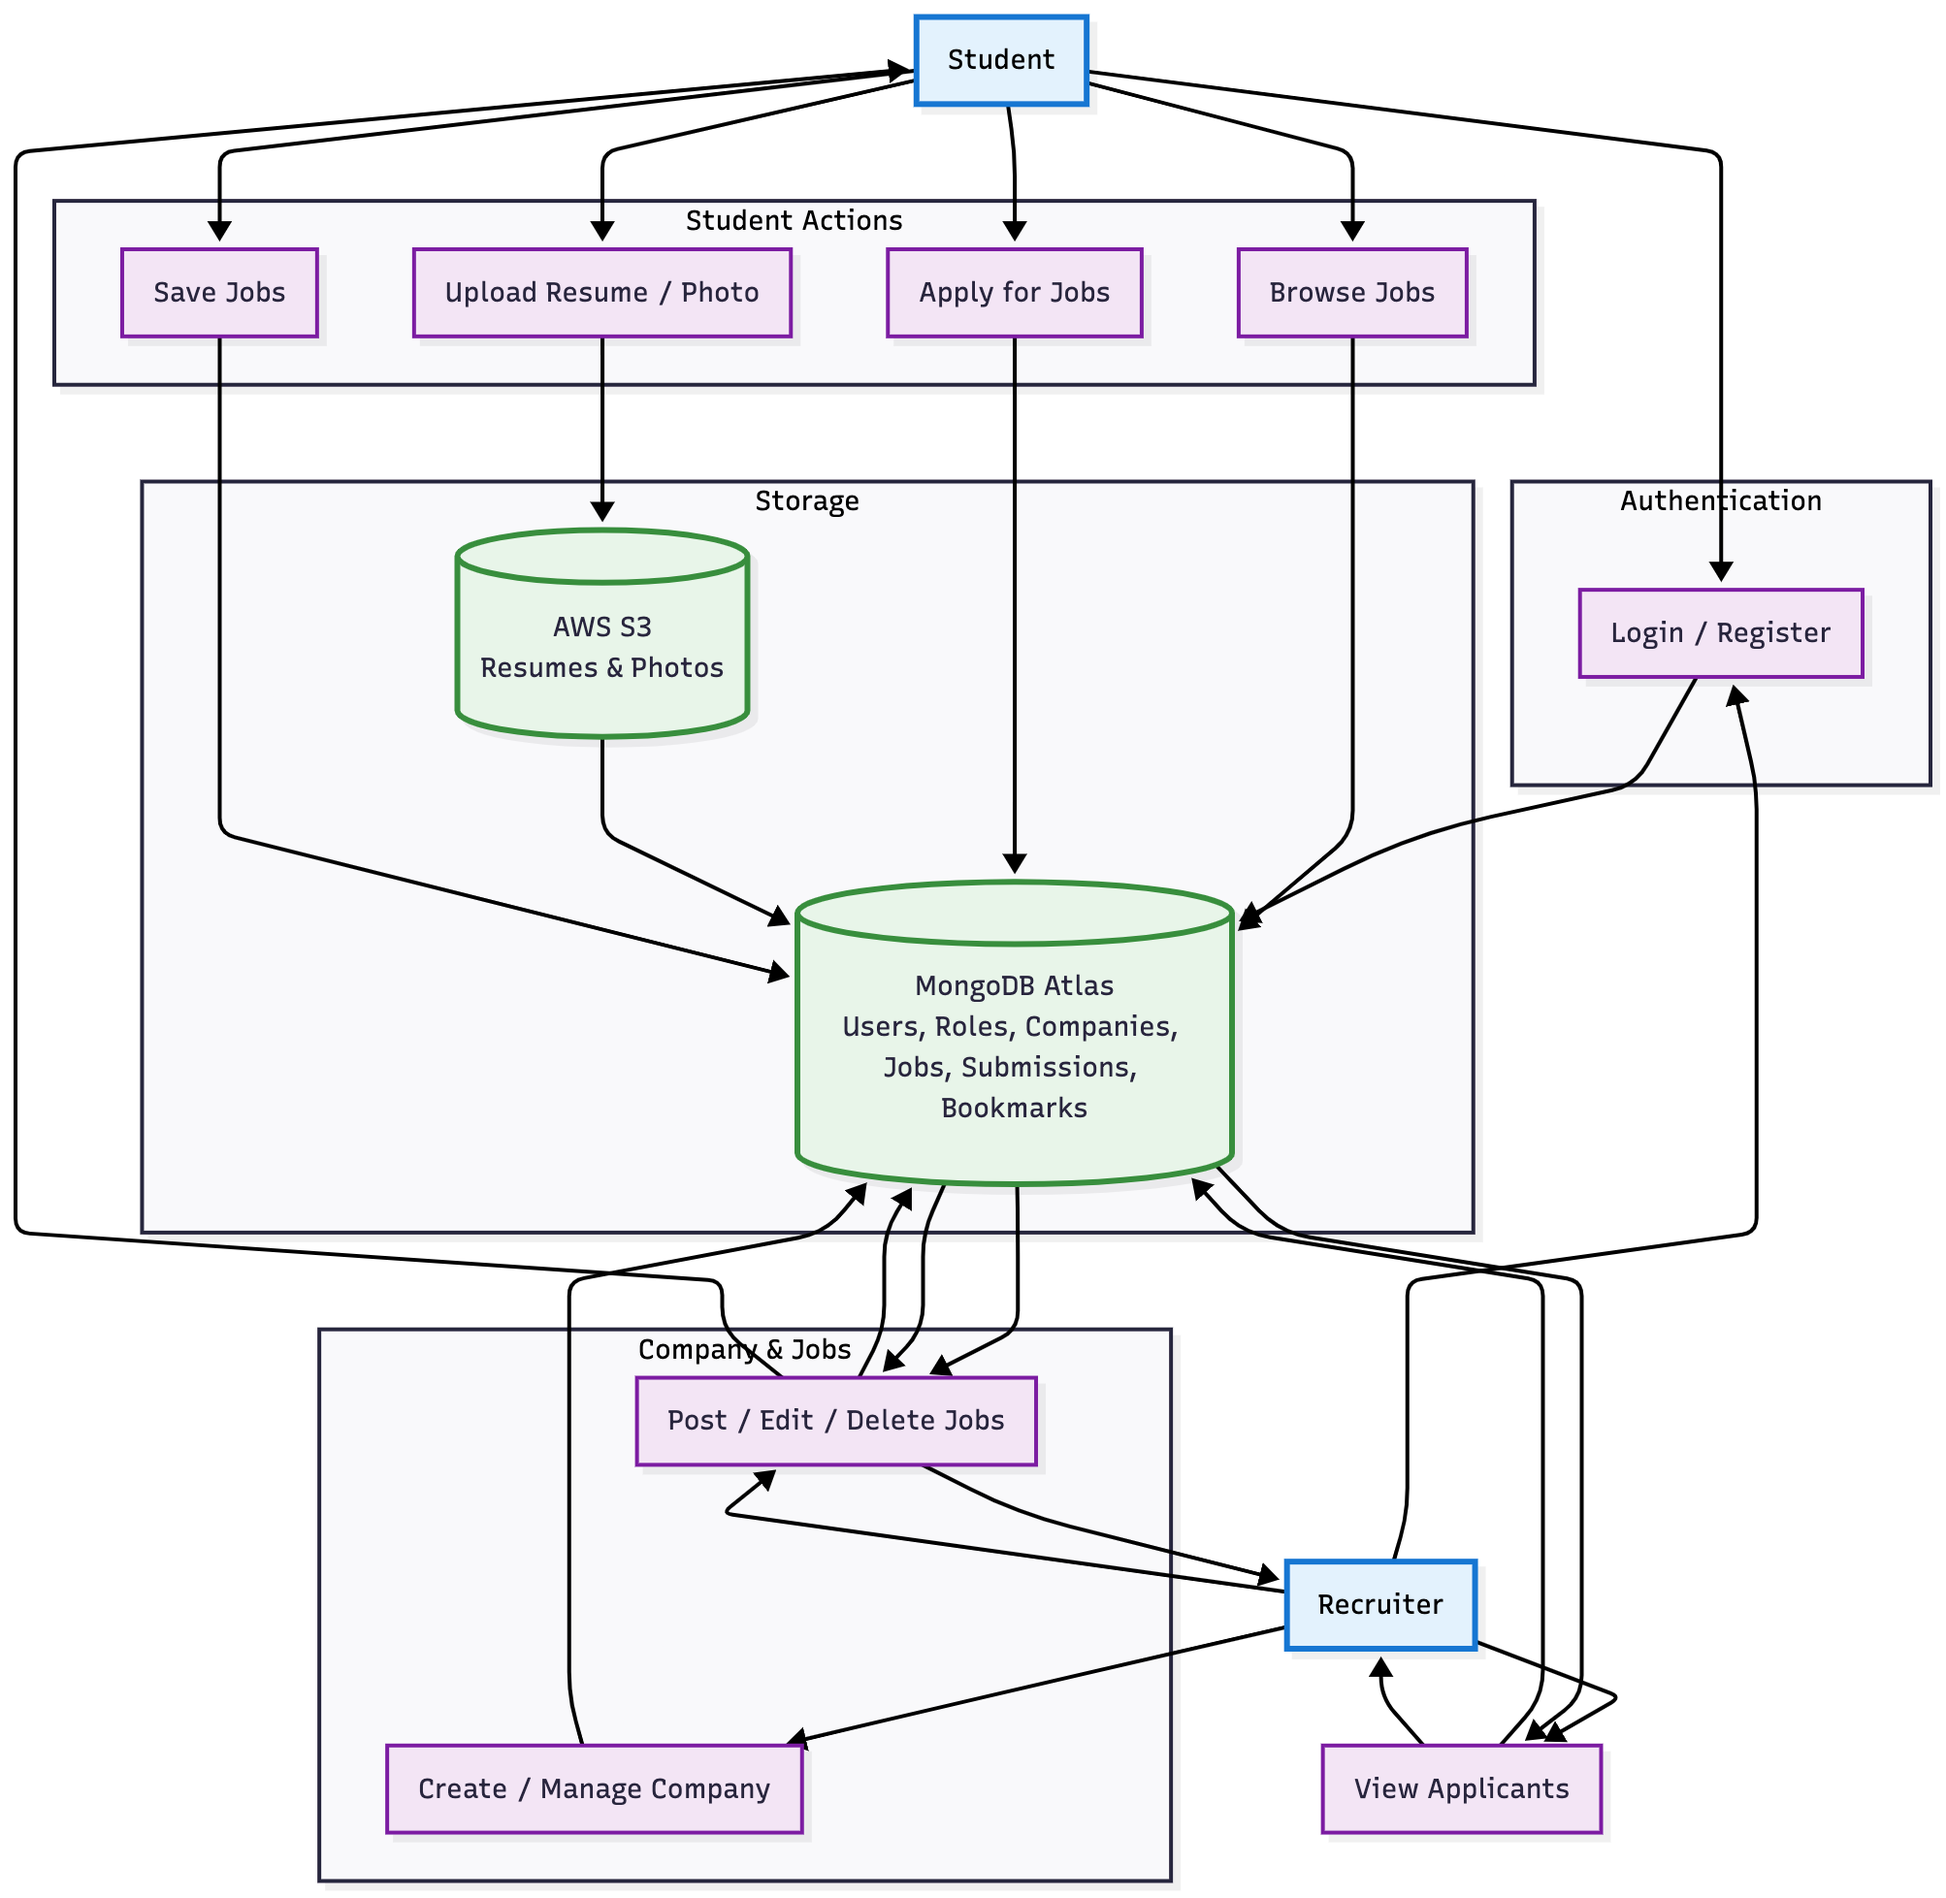
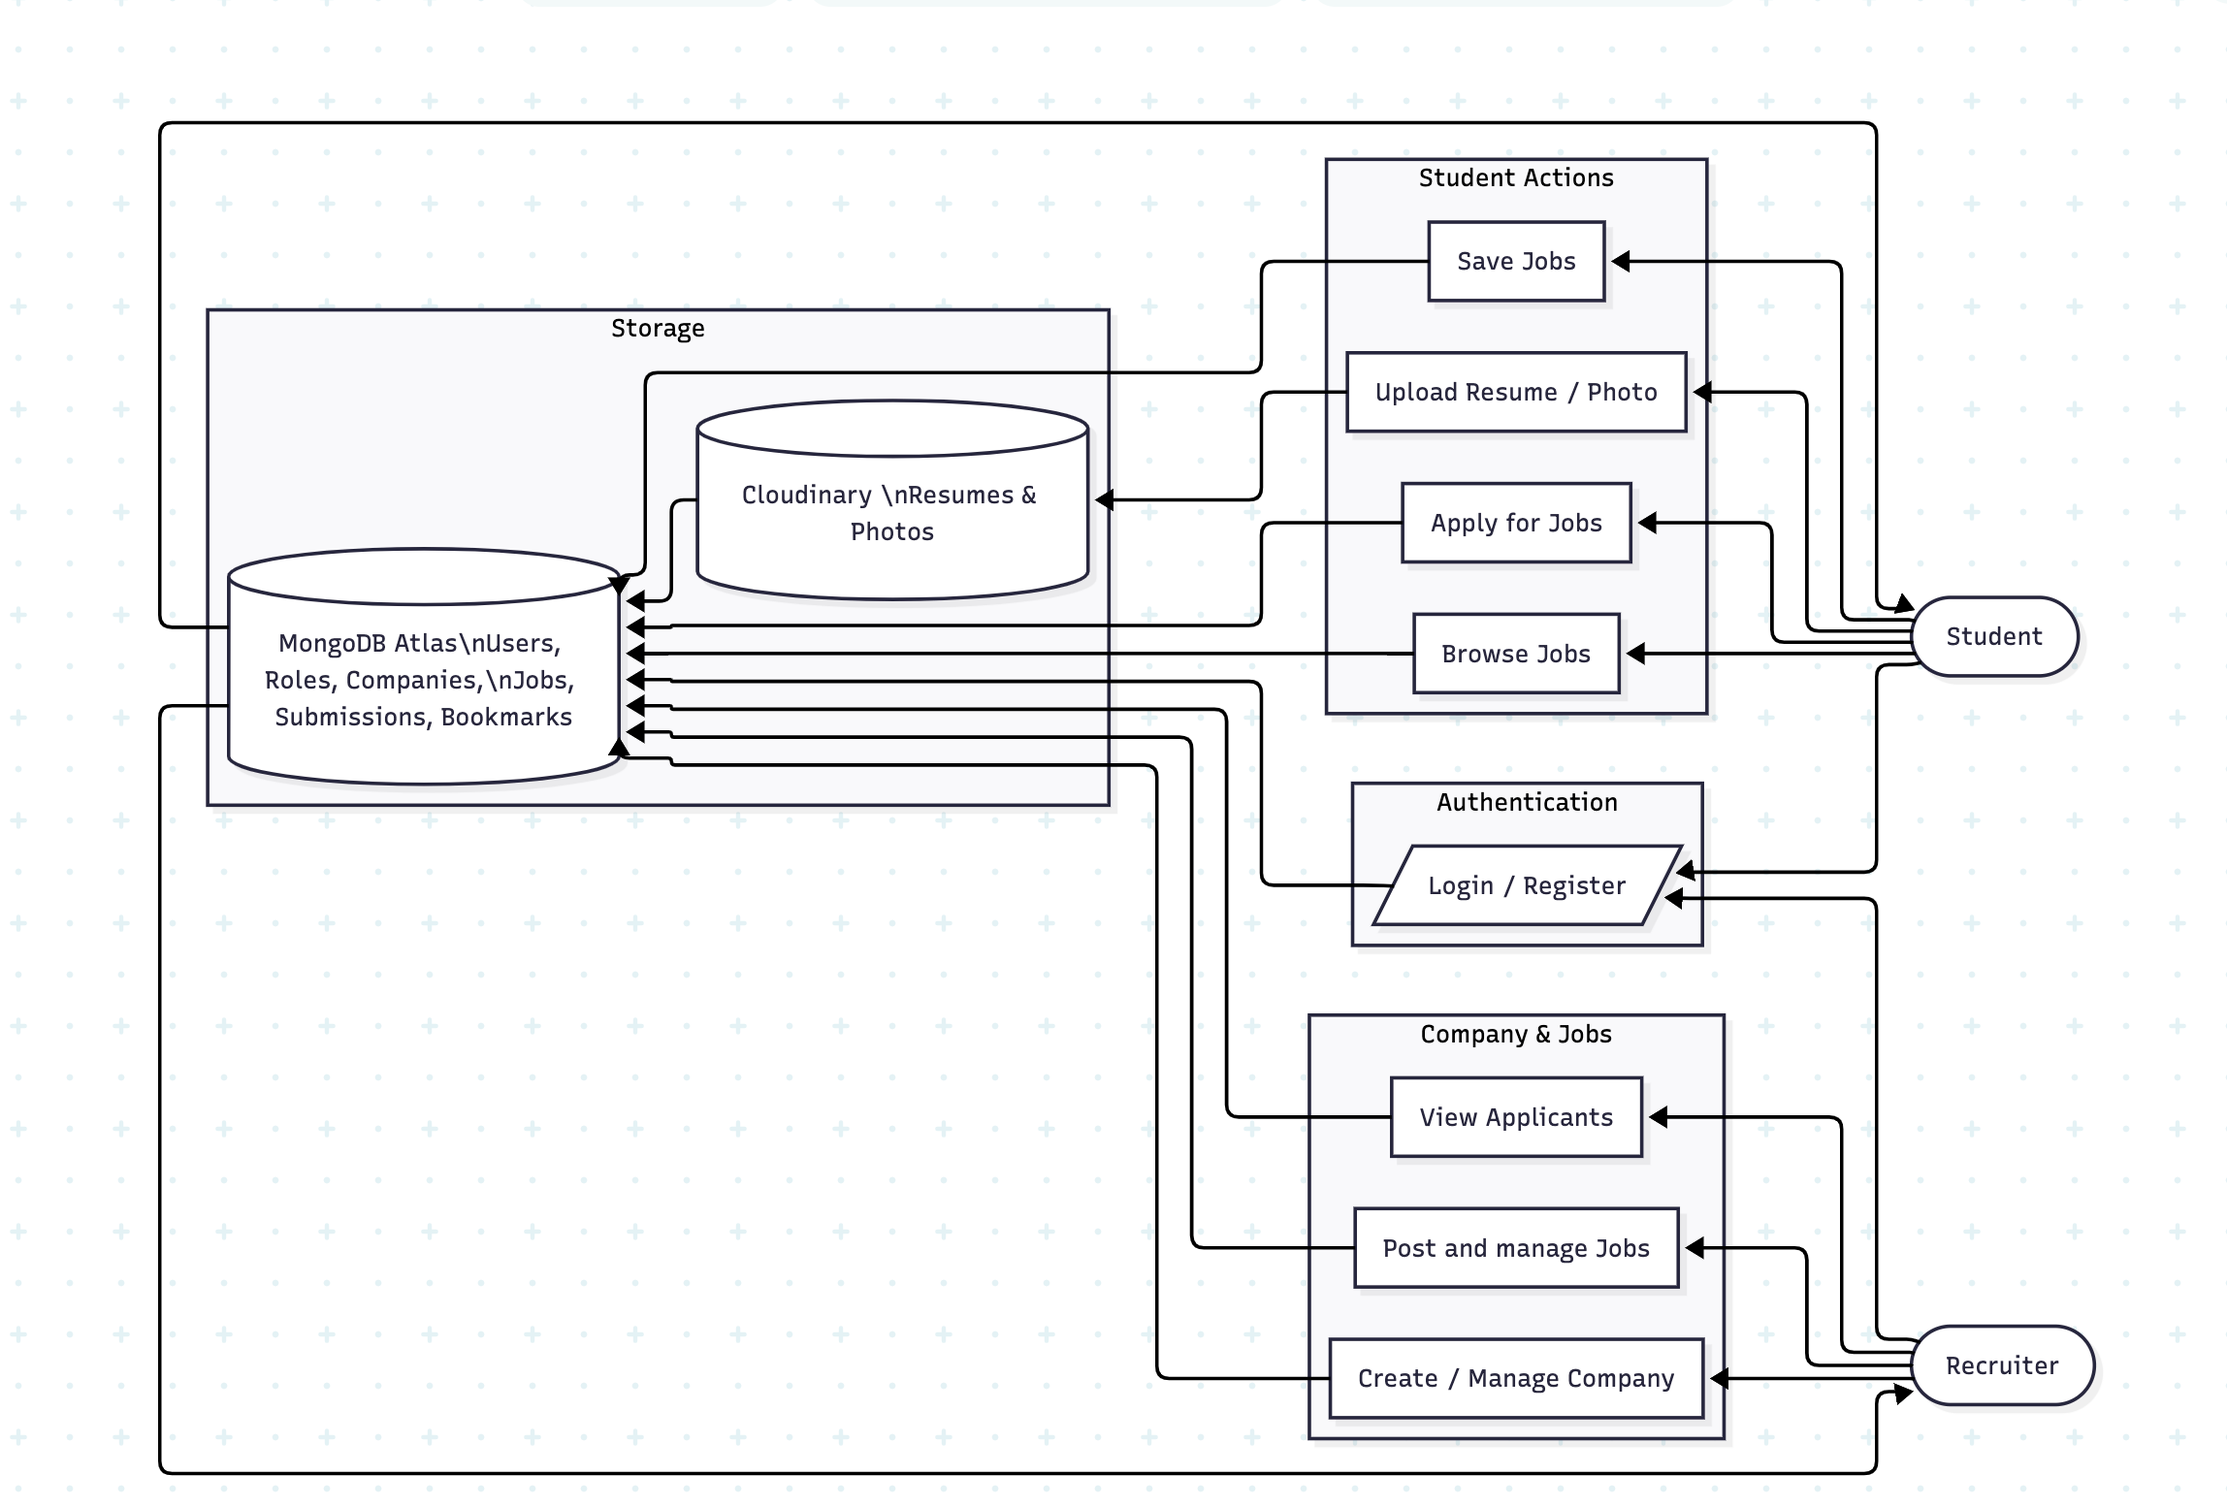
Deployed 5919ba6 with MkDocs version: 1.6.1

diff --git a/future_scope/index.html b/future_scope/index.html
@@ -516,9 +516,72 @@
     <ul class="md-nav__list" data-md-component="toc" data-md-scrollfix>
       
         <li class="md-nav__item">
-  <a href="#possible-future-enhancements" class="md-nav__link">
+  <a href="#enhanced-company-management" class="md-nav__link">
     <span class="md-ellipsis">
-      Possible Future Enhancements
+      Enhanced Company Management
+    </span>
+  </a>
+  
+</li>
+      
+        <li class="md-nav__item">
+  <a href="#advanced-job-management" class="md-nav__link">
+    <span class="md-ellipsis">
+      Advanced Job Management
+    </span>
+  </a>
+  
+</li>
+      
+        <li class="md-nav__item">
+  <a href="#advanced-job-filtering" class="md-nav__link">
+    <span class="md-ellipsis">
+      Advanced Job Filtering
+    </span>
+  </a>
+  
+</li>
+      
+        <li class="md-nav__item">
+  <a href="#meeting-scheduling-feature" class="md-nav__link">
+    <span class="md-ellipsis">
+      Meeting Scheduling Feature
+    </span>
+  </a>
+  
+</li>
+      
+        <li class="md-nav__item">
+  <a href="#ai-based-job-recommendations" class="md-nav__link">
+    <span class="md-ellipsis">
+      AI-Based Job Recommendations
+    </span>
+  </a>
+  
+</li>
+      
+        <li class="md-nav__item">
+  <a href="#resume-parsing-analysis" class="md-nav__link">
+    <span class="md-ellipsis">
+      Resume Parsing &amp; Analysis
+    </span>
+  </a>
+  
+</li>
+      
+        <li class="md-nav__item">
+  <a href="#email-sms-notifications" class="md-nav__link">
+    <span class="md-ellipsis">
+      Email &amp; SMS Notifications
+    </span>
+  </a>
+  
+</li>
+      
+        <li class="md-nav__item">
+  <a href="#payment-or-subscription-module" class="md-nav__link">
+    <span class="md-ellipsis">
+      Payment or Subscription Module
     </span>
   </a>
   
@@ -552,32 +615,35 @@
 
 
 <h1 id="future-scope">Future Scope<a class="headerlink" href="#future-scope" title="Permanent link">&para;</a></h1>
-<p>The Job Portal App can be expanded with more advanced and industry-level features to make it more intelligent, scalable, and user-friendly.</p>
-<h3 id="possible-future-enhancements">Possible Future Enhancements<a class="headerlink" href="#possible-future-enhancements" title="Permanent link">&para;</a></h3>
-<ol>
-<li>
-<p><strong>Meeting Scheduling Feature:</strong>
-   Meeting can be Scheduled between students and recruiters.</p>
-</li>
-<li>
-<p><strong>AI-Based Job Recommendations:</strong><br />
-   Suggests jobs to students based on their profile, resume, and application history.</p>
-</li>
-<li>
-<p><strong>Resume Parsing and Analysis:</strong><br />
-   Automatically extracts keywords from uploaded resumes to match with recruiter job requirements.</p>
-</li>
-<li>
-<p><strong>Email &amp; SMS Notifications:</strong><br />
-   Sends automatic alerts to users when job status changes or new matching jobs are available.</p>
-</li>
-<li>
-<p><strong>Payment or Subscription Module:</strong><br />
-   Allows premium recruiters to highlight their job posts or access special features.</p>
-</li>
-</ol>
-<hr />
-<p>These features will make the platform more robust, intelligent, and closer to real-world job portals like LinkedIn or Indeed.</p>
+<p>The Job Portal App can be enhanced with more advanced, intelligent, and scalable features to improve the experience for students as well as recruiters.</p>
+<h2 id="enhanced-company-management">Enhanced Company Management<a class="headerlink" href="#enhanced-company-management" title="Permanent link">&para;</a></h2>
+<ul>
+<li><strong>Edit Company:</strong> Modify company details such as description, logo, or website.  </li>
+<li><strong>Delete Company:</strong> Remove outdated or invalid companies.</li>
+</ul>
+<h2 id="advanced-job-management">Advanced Job Management<a class="headerlink" href="#advanced-job-management" title="Permanent link">&para;</a></h2>
+<ul>
+<li><strong>Edit Job:</strong> Update job details such as salary, description, title, or requirements.  </li>
+<li><strong>Delete Job:</strong> Remove jobs that are closed or no longer relevant.</li>
+</ul>
+<h2 id="advanced-job-filtering">Advanced Job Filtering<a class="headerlink" href="#advanced-job-filtering" title="Permanent link">&para;</a></h2>
+<p>Allow students to filter jobs using various criteria such as:<br />
+- Salary range<br />
+- Experience level<br />
+- Job type (full-time, internship, remote, hybrid)<br />
+- Required skills<br />
+- Company<br />
+- Location  </p>
+<h2 id="meeting-scheduling-feature">Meeting Scheduling Feature<a class="headerlink" href="#meeting-scheduling-feature" title="Permanent link">&para;</a></h2>
+<p>Enables scheduled meetings or live sessions between students and recruiters.</p>
+<h2 id="ai-based-job-recommendations">AI-Based Job Recommendations<a class="headerlink" href="#ai-based-job-recommendations" title="Permanent link">&para;</a></h2>
+<p>Provides personalized job suggestions based on user profile, resume data, skills, and past application history.</p>
+<h2 id="resume-parsing-analysis">Resume Parsing &amp; Analysis<a class="headerlink" href="#resume-parsing-analysis" title="Permanent link">&para;</a></h2>
+<p>Automatically extracts relevant keywords and skill sets from uploaded resumes to match with recruiter job requirements.</p>
+<h2 id="email-sms-notifications">Email &amp; SMS Notifications<a class="headerlink" href="#email-sms-notifications" title="Permanent link">&para;</a></h2>
+<p>Sends automated alerts for application updates, new matching jobs, or recruiter messages.</p>
+<h2 id="payment-or-subscription-module">Payment or Subscription Module<a class="headerlink" href="#payment-or-subscription-module" title="Permanent link">&para;</a></h2>
+<p>Allows premium recruiters to highlight job posts, access exclusive tools, or unlock advanced features.</p>
 
 
 

diff --git a/data_flow_diagram/index.html b/data_flow_diagram/index.html
@@ -583,13 +583,13 @@
 <h3 id="level-1-dfd">Level 1 DFD<a class="headerlink" href="#level-1-dfd" title="Permanent link">&para;</a></h3>
 <p>This diagram breaks the system into key functional modules like Authentication, Company &amp; Jobs, Student Actions, and Storage.</p>
 <p style="margin-left: 250px;">
-  <img src="../assets/dfd_level_1.png" alt="DFD Level 1 Diagram" width="500" height="100">
+  <img src="../assets/dfd_level_1.png" alt="DFD Level 1 Diagram" width="700" height="150">
 </p>
 
 <h3 id="level-2-dfd">Level 2 DFD<a class="headerlink" href="#level-2-dfd" title="Permanent link">&para;</a></h3>
 <p>This level provides a detailed view of the internal operations inside each module.</p>
 <p style="margin-left: 250px;">
-  <img src="../assets/dfd_level_2.png" alt="DFD Level 2 Diagram" width="500" height="100">
+  <img src="../assets/dfd_level_2.png" alt="DFD Level 2 Diagram" width="900" height="250">
 </p>
 
 

diff --git a/user_roles/index.html b/user_roles/index.html
@@ -635,7 +635,6 @@ Each role has specific features and permissions that define what they can do ins
 <ul>
 <li><strong>Account Access:</strong> Login or register securely as a recruiter.</li>
 <li><strong>Post Jobs:</strong> Create new job listings with required details.</li>
-<li><strong>Edit or Delete Jobs:</strong> Modify or remove previously posted jobs.</li>
 <li><strong>View Applicants:</strong> See a list of all students who applied to their jobs.</li>
 <li><strong>Resume Review:</strong> Access student resumes directly through the dashboard.</li>
 <li><strong>Updating Application Status:</strong> Update the application status for each applicant.</li>

diff --git a/functional_use_cases/index.html b/functional_use_cases/index.html
@@ -539,18 +539,6 @@
 </tr>
 <tr>
 <td></td>
-<td><strong>Edit Job</strong></td>
-<td>Modify job details when needed</td>
-<td>Updated job visible to students</td>
-</tr>
-<tr>
-<td></td>
-<td><strong>Delete Job</strong></td>
-<td>Remove outdated job postings</td>
-<td>Job removed from job list</td>
-</tr>
-<tr>
-<td></td>
 <td><strong>View Applicants</strong></td>
 <td>View all students who applied for their job</td>
 <td>Applicant details visible</td>

diff --git a/tech_stack/index.html b/tech_stack/index.html
@@ -602,7 +602,7 @@
 </ul>
 <h2 id="file-storage">File Storage<a class="headerlink" href="#file-storage" title="Permanent link">&para;</a></h2>
 <ul>
-<li><strong>AWS S3 (v33.902.0 AWS SDK):</strong> Stores resume files and photos like company logo and user profile photo.</li>
+<li><strong>Cloudinary (2.8.0):</strong> Stores resume files and photos like company logo and user profile photo.</li>
 </ul>
 <hr />
 

diff --git a/workflow/index.html b/workflow/index.html
@@ -609,7 +609,7 @@
 </li>
 <li>
 <p><strong>Manage Jobs:</strong><br />
-   Recruiter can edit or delete their posted jobs at any time.</p>
+   Recruiter can see their posted jobs at any time.</p>
 </li>
 <li>
 <p><strong>View Applicants:</strong><br />
